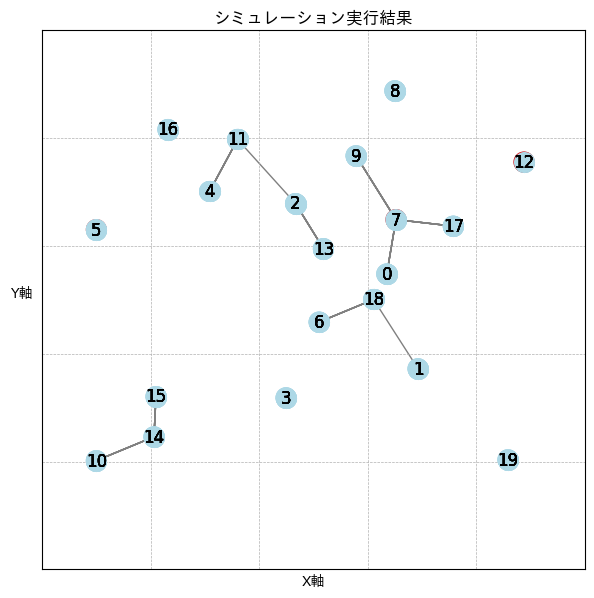
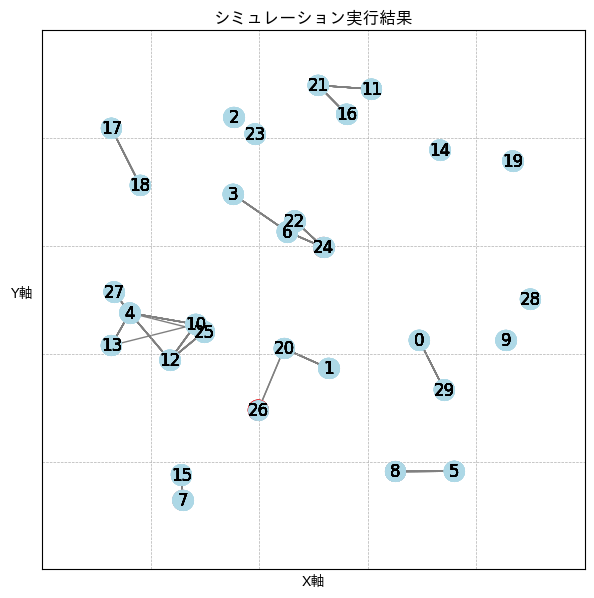
add exposed_detection

diff --git a/main.py b/main.py
@@ -14,7 +14,7 @@ from typing import Any, List, Tuple
 from numpy.typing import NDArray
 
 # パラメータ
-num_nodes = 20  # ノード数
+num_nodes = 30  # ノード数
 min_distance = 5  # ノード間の最小距離
 radius = 10  # ノードを中心とした円の半径(接続半径)
 multiple = 2  # 円の面積の倍数(√n * pi * r^2)
@@ -24,7 +24,7 @@ plot_pattern = 0
 num_div = 5  # セルの分割数
 dist = 3  # 移動距離
 hops = 5  # 接続可能ノード数
-iterations = 30  # シミュレーション回数
+iterations = 10  # シミュレーション回数
 
 
 class setting:
@@ -50,7 +50,6 @@ class setting:
         self.plot_pattern = plot_pattern
         self.num_div = num_div
         self.dist = dist
-        self.exposed_count = {i: None for i in self.positions}  # さらし端末カウンタ
         self.node_size = 200  # 描画ノードサイズ
 
         # ノードの配置
@@ -164,7 +163,6 @@ class setting:
         # reverse = falseの時 昇順(近い順)/ trueの時 降順(遠い順)
         children_sort = sorted(children_in_radius, key=lambda x: x[1], reverse=False)
         child_node_ids = [node_id for node_id, _ in children_sort]  # IDのみ抽出
-        self.exposed_count[parent_node] = len(child_node_ids)
         return child_node_ids
 
     # 移動後も接続されているか確認する
@@ -214,9 +212,6 @@ class setting:
                     self.plot_edge(node_id_1, node_id_2)
                     seen_routes.add(route)
         self.draw()
-
-    # 移動後にノードが重ならないようにする
-    # def node_contact_detection(self):
 
     # 現在の状態を保存
     def save_image(self, frame_index=None):
@@ -342,7 +337,7 @@ class setting:
         # 最終的なself.routingの内容を表示
         print(f"(node_id: route hops : routing)")
         for i in self.positions:
-            print(f"({i}: {self.exposed_count[i]} : {self.routing[i]})")
+            print(f"({i}: {self.routing[i]})")
         print(f"Completed!")
 
 
@@ -430,28 +425,57 @@ class EXPOSED(routing_control, setting):
             if random_values < self.communication_freq[node_id]:
                 self.transmit_node.append(node_id)
 
+    # さらし端末検出
+    def exposed_detection(self, child_node):
+        for parent_node in self.transmit_node:
+            for node_id in child_node:
+                if parent_node == node_id:
+                    # 除くノードは通信頻度が低い方のノードを除く
+                    if (
+                        self.communication_freq[parent_node]
+                        > self.communication_freq[node_id]
+                    ):
+                        super().change_node_color(node_id, "yellow")
+                        self.transmit_node.remove(node_id)
+                    else:
+                        super().change_node_color(parent_node, "yellow")
+                        self.transmit_node.remove(parent_node)
+                    self.exposed_count += 1
+
     # さらしを考慮した場合
     def exposed_connect(self):
-        frame_index = 0
-        image_files = []
-        self.num_connection_attempts = 0
-        self.error_counter = 0
-        if self.plot_pattern == 0:
+        frame_index = 0  # 保存画像インデックス
+        image_files = []  # 保存画像の格納リスト
+        self.num_connection_attempts = 0  # 接続試行回数
+        self.error_counter = 0  # 接続失敗回数(ルーティングテーブルが満杯だった時加算)
+        self.exposed_count = 0  # さらしノードカウンタ
+        # 各親ノードの周りにある子ノードを格納する配列
+        child_node = {i: [] for i in self.positions.keys()}
+        if self.plot_pattern == 0:  # gifと最終結果の画像出力
             while self.iterations > 0:
                 self.iterations -= 1
-                super().move()
-                super().edge_check()
-                self.should_transmit()
+                super().move()  # ノードをランダムに移動させる
+                super().edge_check()  # 移動後、もともと接続されているノードが接続半径内にいるか確認する
+                self.should_transmit()  # 送信要求を行うノードを出力
+                # 通信要求を出しているノードの色とサークルを描画
                 for parent_node in self.transmit_node:
+                    # 親ノードの色を赤色に変える
                     super().change_node_color(parent_node, "red")
+                    # 親ノードの接続半径を可視化する
                     super().taggle_circle(parent_node, True)
-                    image_files.append(super().save_image(frame_index))
-                    frame_index += 1
+                    # 親ノードの周りの子ノードを検出する
+                    child_node[parent_node] = super().circle_detection(parent_node)
+                # 現在描画状態を保存
+                image_files.append(super().save_image(frame_index))
+                frame_index += 1
 
-                    child_node = super().circle_detection(parent_node)
-                    for i in range(len(child_node)):
+                # ノードの接続
+                for parent_node in self.transmit_node:
+                    # さらし端末が起きている端末は親ノードから除く
+                    self.exposed_detection(child_node[parent_node])
+                    for i in range(len(child_node[parent_node])):
                         self.num_connection_attempts += 1
-                        node_id = child_node[i]
+                        node_id = child_node[parent_node][i]
                         # ルーティングテーブルに空きがあるか確認
                         result, error_node = super().routing_hops(parent_node, node_id)
                         if result:
@@ -470,11 +494,16 @@ class EXPOSED(routing_control, setting):
                             self.error_counter += 1
                         image_files.append(super().save_image(frame_index))
                         frame_index += 1
+                    # 全ノードの色をデフォルトの"lightblue"にする
                     super().change_node_color()
-                    super().taggle_circle(parent_node, False)
+                    # 親ノードのサークルを消す
+                    for parent_node in self.transmit_node:
+                        super().taggle_circle(parent_node, False)
                     image_files.append(super().save_image(frame_index))
                     frame_index += 1
+                # 残りのシミュレーション回数を表示
                 print(f"{self.iterations + 1}")
+            # 最終結果とgifの生成を行う
             super().save_image()
             super().generate_gif(image_files)
 
@@ -519,8 +548,9 @@ class EXPOSED(routing_control, setting):
             print(
                 f"{node_id}: {rounded_communication_freq[node_id]}% : {self.routing[node_id]}"
             )
-        print(f"接続試行回数: {self.num_connection_attempts}")
+        print(f"接続試行回数:        {self.num_connection_attempts}回")
         print(f"ノードの接続失敗回数: {self.error_counter} 回")
+        print(f"さらしノード回数:    {self.exposed_count}回")
         print(f"Completed!")
 
 
